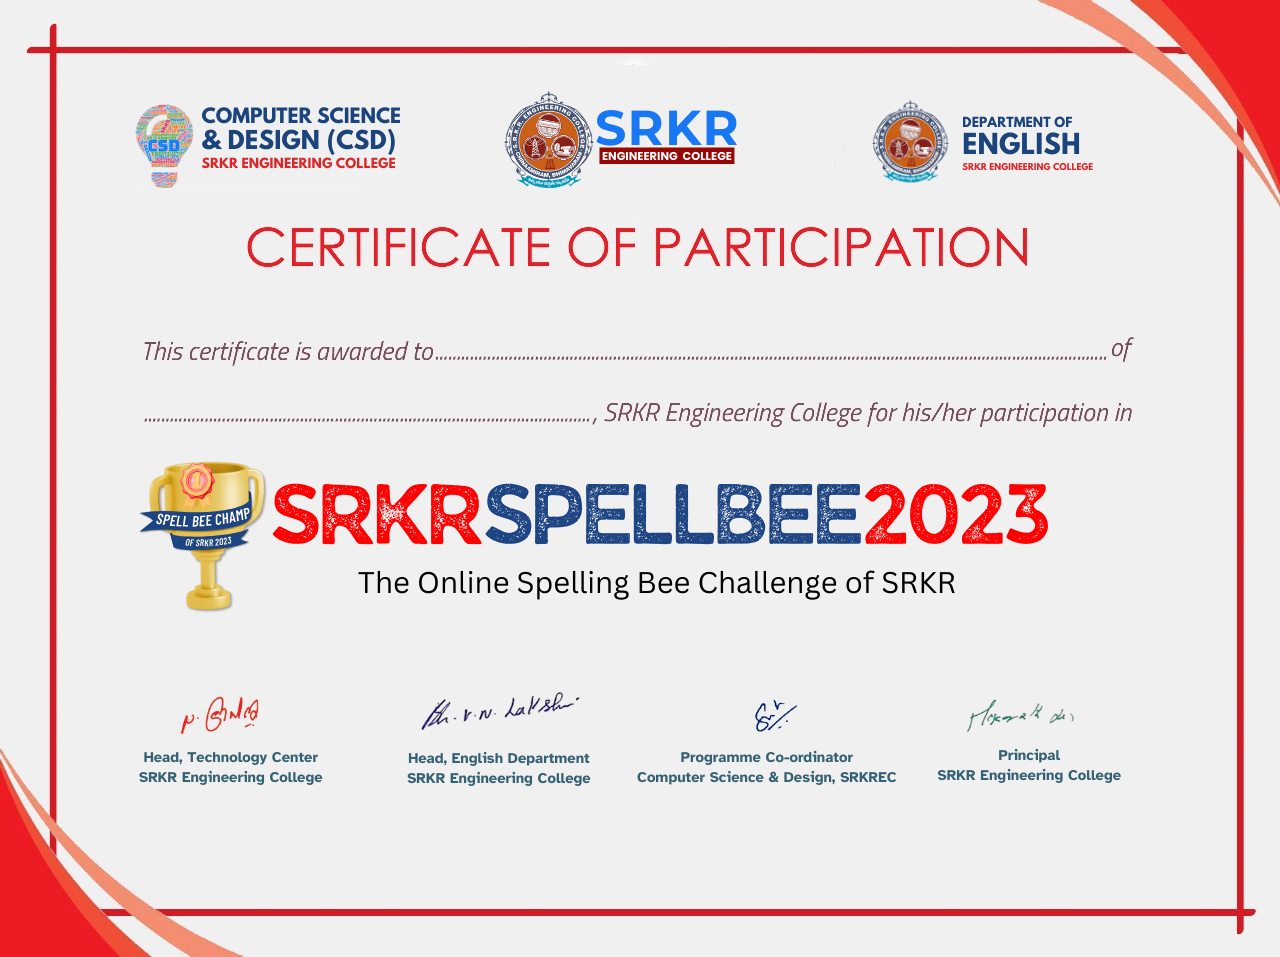
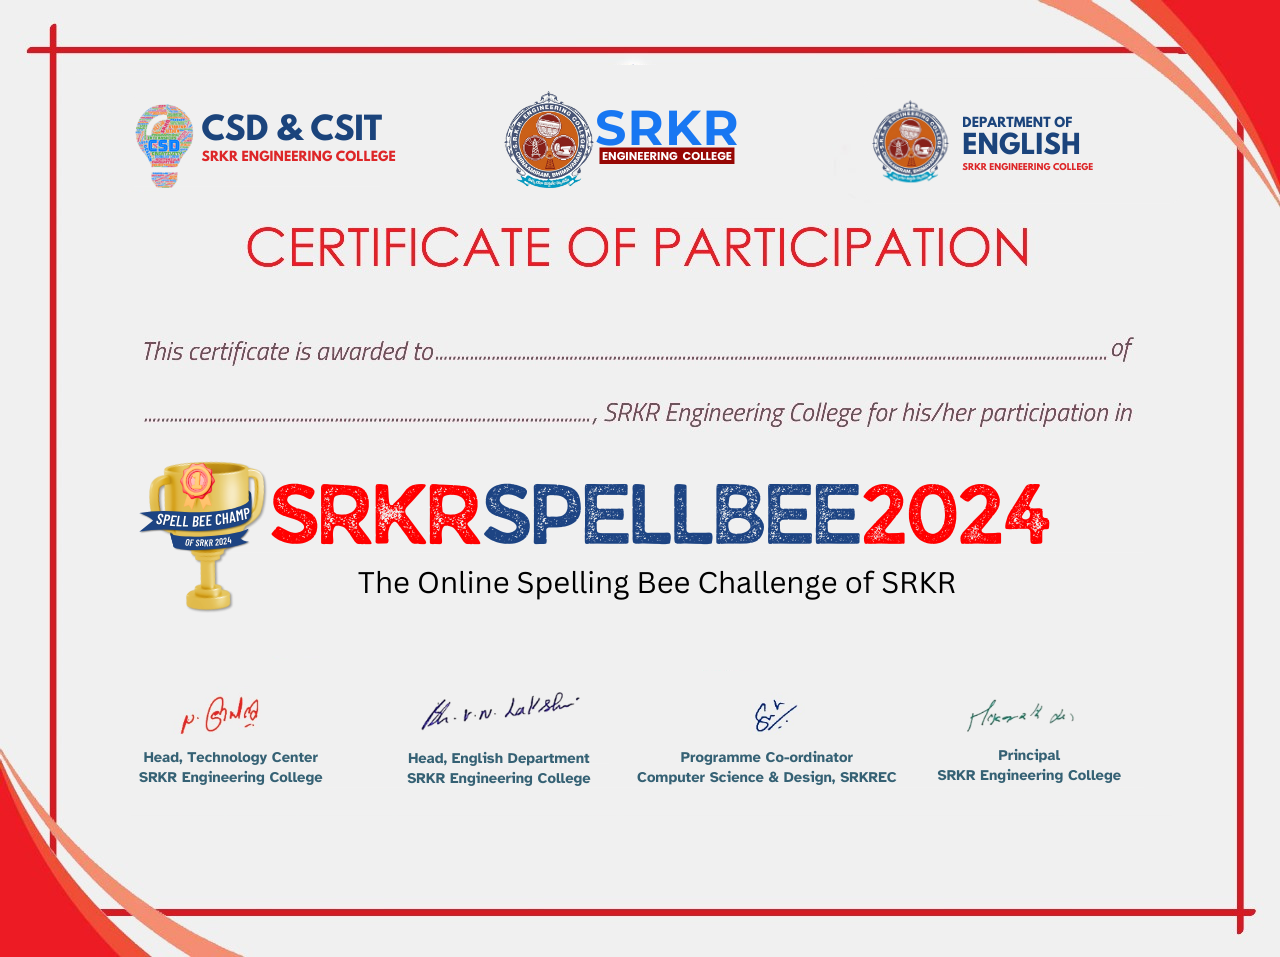
CSD & CSIT

Changed region(s): [[0.2188, 0.4848, 0.8125, 0.5758], [0.1562, 0.0909, 0.3125, 0.1818], [0.1562, 0.5455, 0.1875, 0.5758]]

diff --git a/footer.php b/footer.php
@@ -5,7 +5,7 @@
             <!-- BEGIN BOTTOM ABOUT BLOCK -->
             <div class="col-md-3 col-sm-6 pre-footer-col">
                 <h2>About us</h2>
-                <p style="align-self:auto;">SRKR SpellBee Contest is jointly organized by Computer Science & Design Branch in association with English Department and AICTE IdeaLab of SRKR Engineering College, Bhimavaram. The contest is conducted completely online using the custom software developed by the Software Development Club (SDC) of Computer Science & Design branch. </p>
+                <p style="align-self:auto;">SRKR SpellBee Contest is jointly organized by Computer Science & Design and Computer Science & Infornation Technology Branch in association with English Department and AICTE IdeaLab of SRKR Engineering College, Bhimavaram. The contest is conducted completely online using the custom software developed by the Software Development Club (SDC) of Computer Science & Design branch. </p>
             </div>
             <!-- END BOTTOM ABOUT BLOCK -->
             <!-- BEGIN TWITTER BLOCK -->
@@ -94,7 +94,8 @@
                 <!-- BEGIN BOTTOM CONTACTS -->
                 <h2>Our Contacts</h2>
                 <address class="margin-bottom-20">
-                    Computer Science & Design (CSD) Branch<br>
+                    Computer Science & Design (CSD) <br>
+                    Computer Science & Information Technology (CSIT) <br>
                     2nd Floor, I-Hub Incubation Centre,<br>
                     Idea Lab, SRKR Engineering College,<br>
                     Chinna Amiram, Bhimavaram, A.P. - 534204<br>
@@ -114,7 +115,7 @@
         <div class="row">
             <!-- BEGIN COPYRIGHT -->
             <div class="col-md-8 col-sm-8">
-                <div class="copyright">© Computer Science & Design, SRKREC 2024 . All Rights Reserved.</div>
+                <div class="copyright">© Computer Science & Design and Computer Science & Information Technology, SRKREC 2024 . All Rights Reserved.</div>
             </div>
             <!-- END COPYRIGHT -->
             <!-- BEGIN COPYRIGHT -->

diff --git a/certificate.php b/certificate.php
@@ -109,7 +109,7 @@ if (isset($_POST['newregistration'])) {
         <div class="container">
 
             <br>
-            <h3><strong><b>SRKR SPELL BEE</b></strong> 2K23</h3>
+            <h3><strong><b>SRKR SPELL BEE</b></strong> 2K24</h3>
 
 
             <div class="col-md-4"></div>

diff --git a/exam/dashboard2.php b/exam/dashboard2.php
@@ -46,7 +46,7 @@
 				<!-- end: sidebar -->
 				<section role="main" class="content-body">
 					<header class="page-header">
-						<h2>CSD SPELL BEE</h2>
+						<h2>CSD & CSIT SPELL BEE</h2>
 					</header>
 
 					<!-- start: page -->
